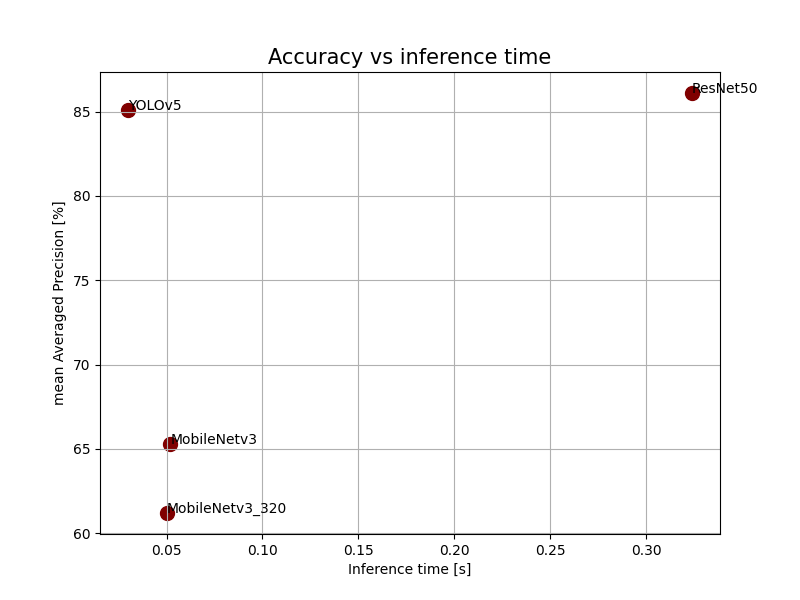
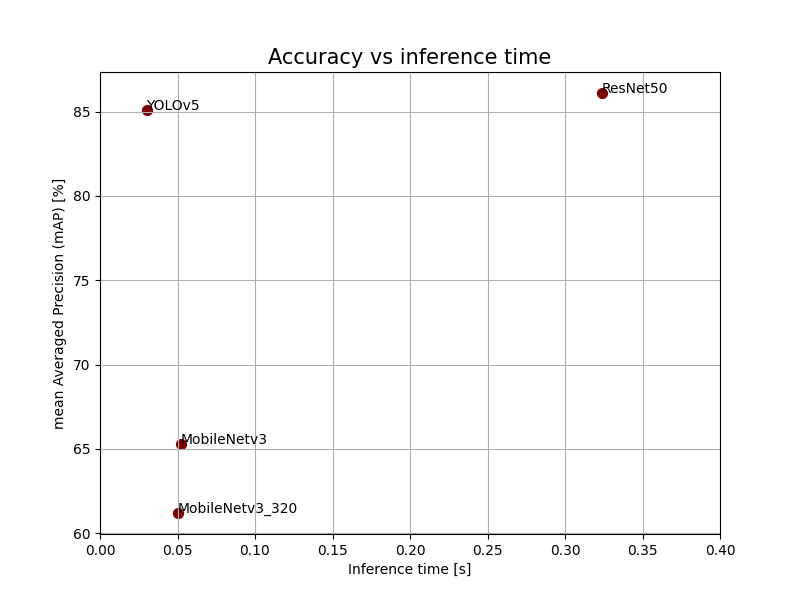
Tweaked plot scripts

diff --git a/scripts/plotting.py b/scripts/plotting.py
@@ -11,10 +11,11 @@ inferencetime = np.array([0.052, 0.05, 0.3238, 0.03])
 accuracy = np.array([65.3, 61.2, 86.1, 85.1])
 # Plotting point using sactter method
 plt.figure(figsize=(8,6))
-plt.scatter(inferencetime,accuracy,s=100,color="maroon")
+plt.scatter(inferencetime,accuracy,s=50,color="maroon")
 plt.grid()
+plt.xlim([0, 0.4])
 plt.xlabel("Inference time [s]")
-plt.ylabel("mean Averaged Precision [%]")
+plt.ylabel("mean Averaged Precision (mAP) [%]")
 plt.title("Accuracy vs inference time",fontsize=15)
 for i, label in enumerate(annotations):
     plt.annotate(label, (inferencetime[i], accuracy[i]))
